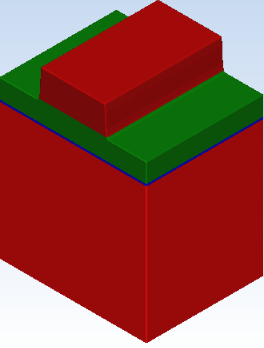
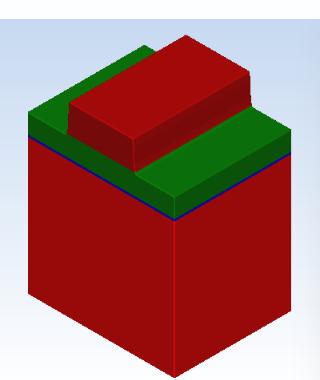
FinFET 페이지 그림 좌우 여백 추가

diff --git a/finfet.html b/finfet.html
@@ -7,7 +7,7 @@
 <link rel="stylesheet" href="style.css">
 <style>
 .step{display:flex;gap:18px;align-items:flex-start}
-.step img{flex:none;width:auto;height:auto;max-width:230px;max-height:380px;border-radius:8px;border:1px solid var(--border);background:#fff}
+.step img{flex:none;width:auto;height:auto;max-width:250px;max-height:400px;border-radius:8px;border:1px solid var(--border);background:#fff}
 .step h3{margin-top:0}
 .step p{margin:6px 0}
 .tag{display:inline-block;font-size:13px;color:var(--accent);background:var(--accent-bg);border:1px solid var(--accent-border);border-radius:6px;padding:0 8px;margin-bottom:4px}
